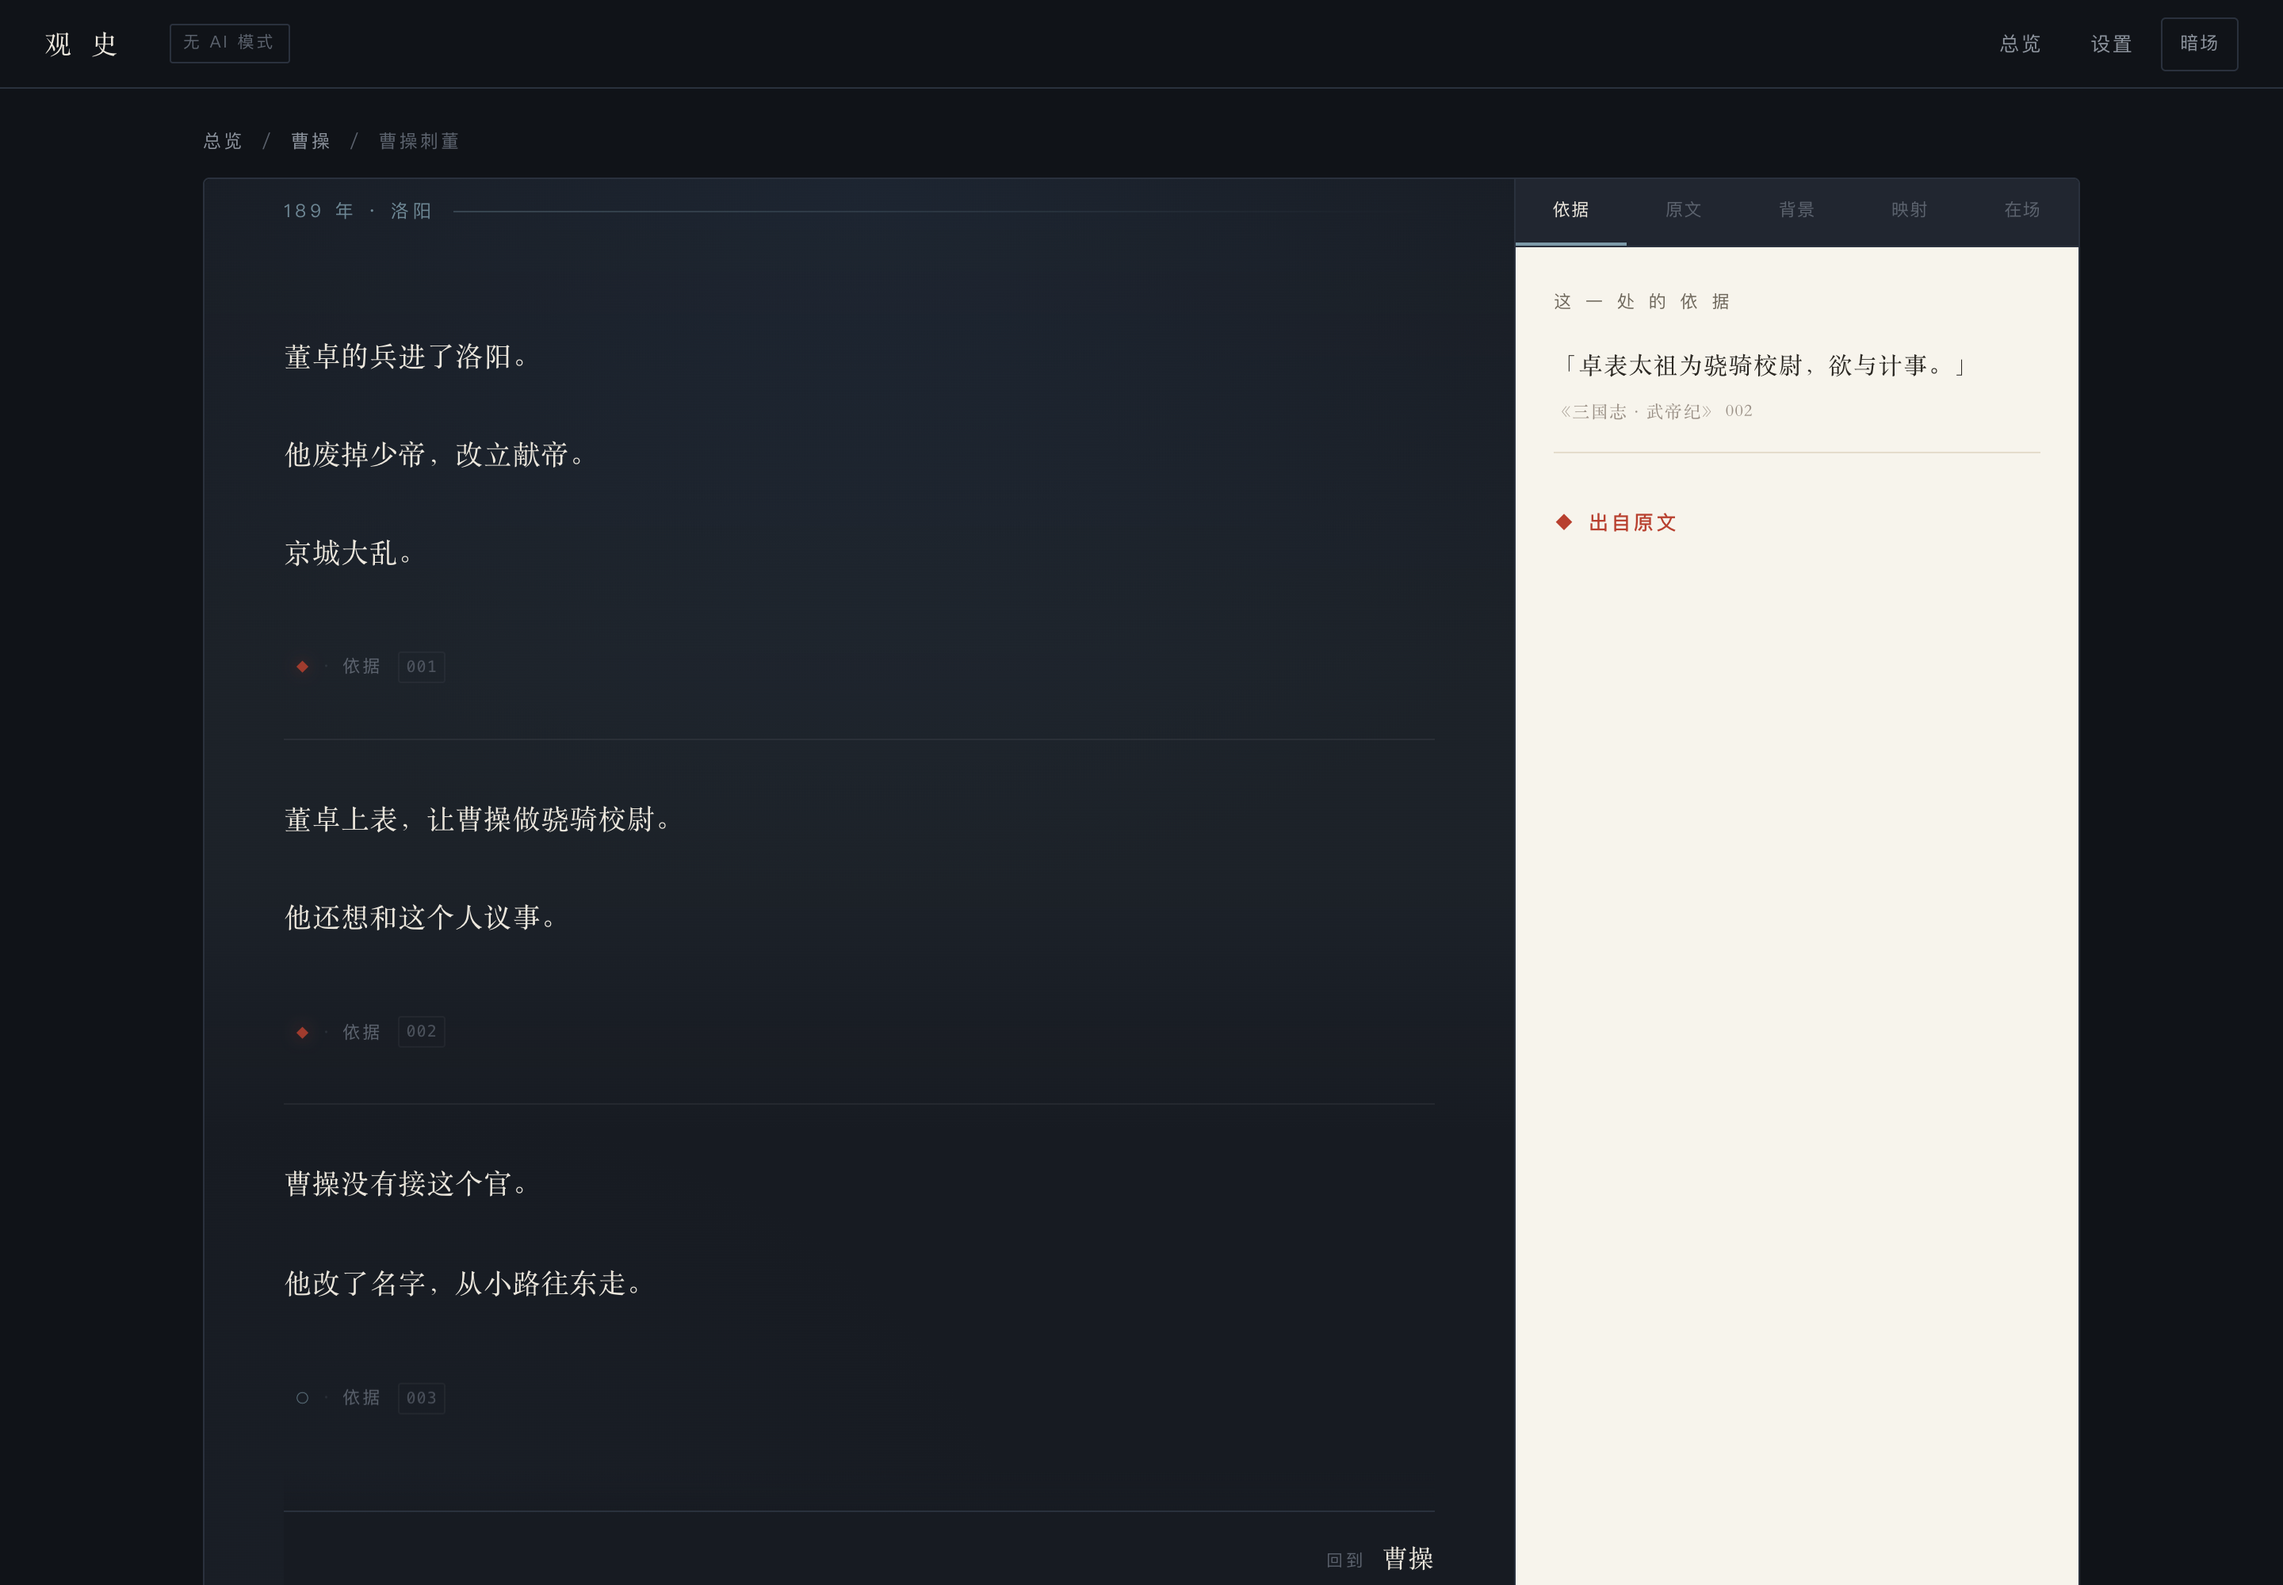
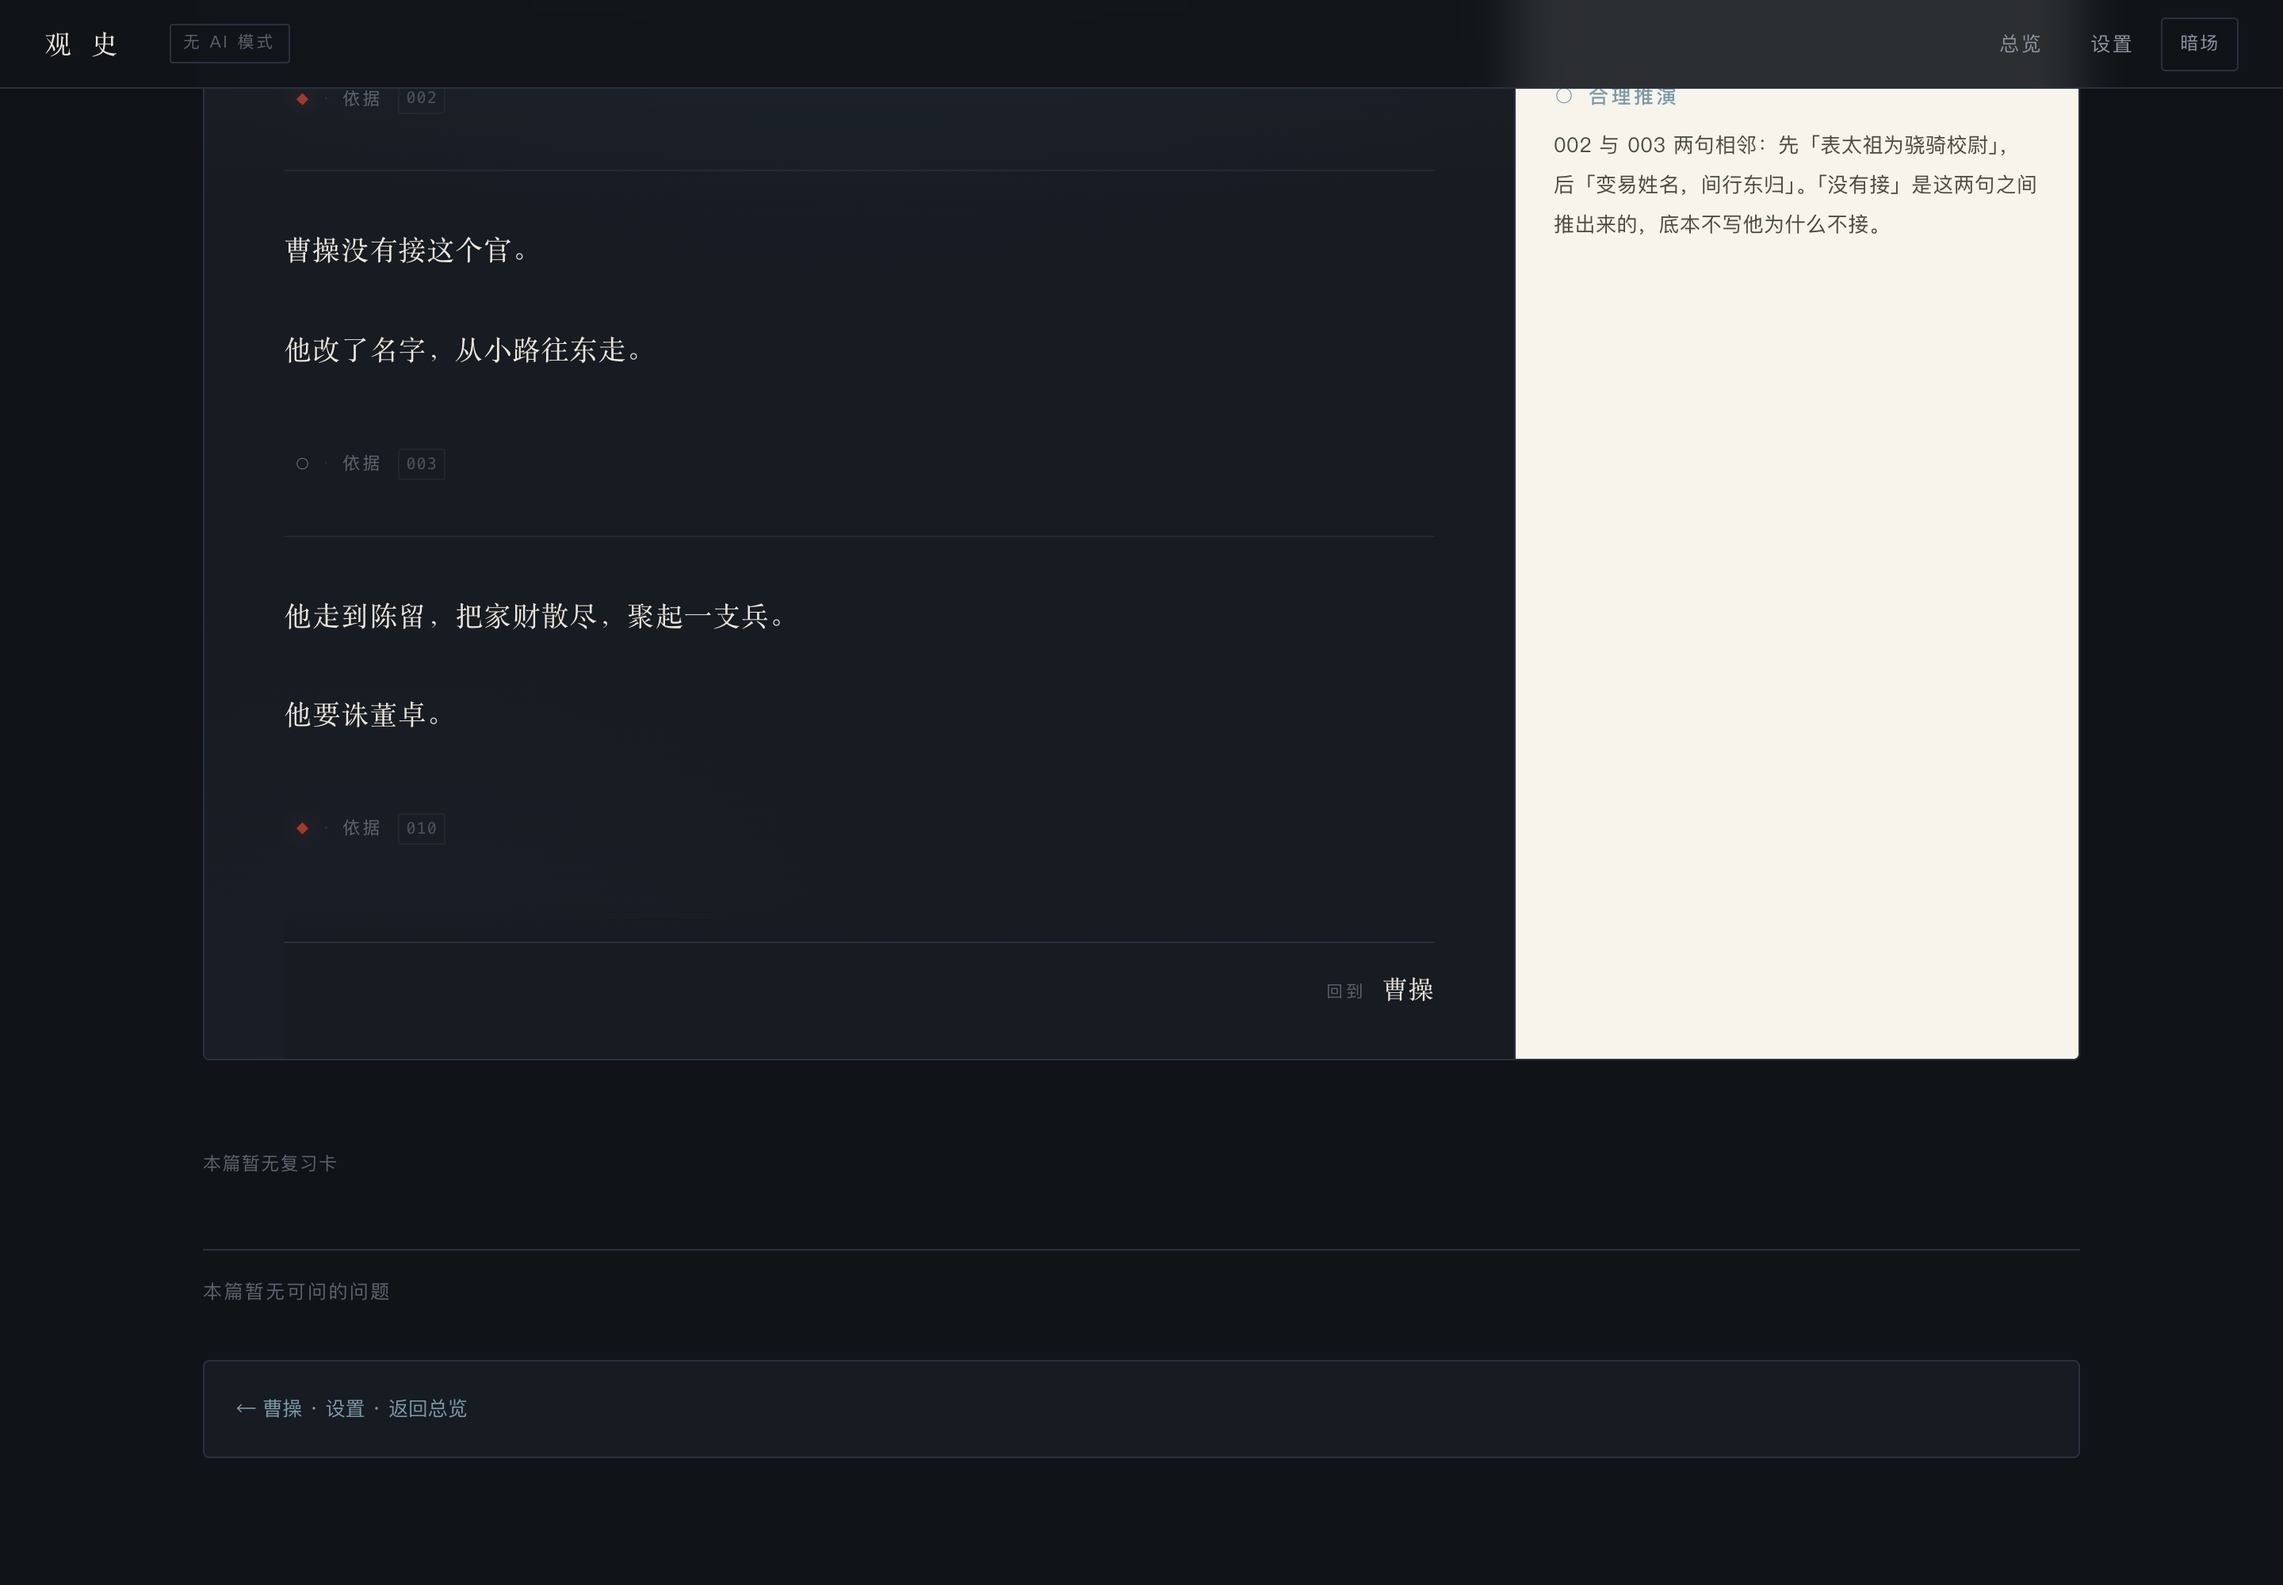
曹操刺董：把结尾补上——正史给他的不是刀，是兵
用户读到最后一段问「曹操刺董卓怎么到这里就结束了」。是对的，
而且是我上一轮改出来的：删掉「走到陈留，散尽家财，起兵」之后，
`003`「太祖乃变易姓名，间行东归」九个字成了全篇结尾。

**那一句是出口，不是落点。** 篇名叫「曹操刺董」，全篇没有一个字挨着「刺」，
读者读完只有「然后呢」。

底本补到 19 段之后这件事就能修对了：010「太祖至陈留，散家财，合义兵，
将以诛卓」现在是有编号的，原来那一版方向对、只是标成了 ◆ 而底本没有。

新增情节点 4 · 陈留（◆ `010`）：

    ① 董卓废立          该刺
    ② 董卓给他官        可以靠近了
    ③ 他不接，走了      没刺
    ④ 散尽家财，聚兵，要诛董卓   ← 换了个方式

原文范围 `001–004、010`——中间 005–009 是家世和早年，属别处，不跟进来。

顺带
· `lib/range.mjs`：范围的三种写法（`054–058` / `001 005 010` / `001–004、010`）
  归一处实现，渲染层和编译器引同一份。原来渲染层那段正则先咬住 `001–004`，
  010 被整个丢掉，**页面只是少一段原文，标题照样印完整范围，不报错**。
· 编译器新增守卫：范围里的编号必须在 source.md 里存在（13 例正反测）。
· stories.md 补上已定位的原文范围（02→006–007，07→011–012，08→013–015，
  09→016，10→017–019），并修掉两处写作计划里就写错的转折：
  「火烧乌巢」和「烧船自退」——两件正文都没有的事。
  `08-guandu` 改成「夜袭乌巢，大破琼等」，`09-chibi` 改成「引军还」。
· 03-chenliu 的情境改成 01 没覆盖的部分（卫兹出钱、五千人），
  并注明五千人出裴注引《世语》，写之前要补进底本。

检查项 6453 → 6483；npm run verify 12/12。

diff --git a/web/lib/content.js b/web/lib/content.js
@@ -1,5 +1,6 @@
 import fs from 'node:fs'
 import path from 'node:path'
+import { parseRange } from './range.mjs'
 
 /**
  * 读取内容编译产物。
@@ -49,21 +50,12 @@ export function groupByEra(people) {
 
 /**
  * 取某个故事用到的原文段落。
- * 故事的 sourceRange 形如 "054–058" 或 "001–016"。
+ * 范围怎么写（`001–004`、`001 005 010`、`001–004、010`）由 `range.mjs` 说了算，
+ * 编译器和这里引的是同一份实现，不会各认各的。
  */
 export function sourceRange(person, range) {
   const out = {}
-  const m = String(range || '').match(/(\d{3})\s*[–\-—~]\s*(\d{3})/)
-  if (m) {
-    for (let i = Number(m[1]); i <= Number(m[2]); i++) {
-      const id = String(i).padStart(3, '0')
-      if (person.source[id]) out[id] = person.source[id]
-    }
-  } else {
-    for (const id of String(range || '').match(/\d{3}/g) || []) {
-      if (person.source[id]) out[id] = person.source[id]
-    }
-  }
+  for (const id of parseRange(range)) if (person.source[id]) out[id] = person.source[id]
   return out
 }
 

diff --git a/content/people/caocao/stories/01-cidong.md b/content/people/caocao/stories/01-cidong.md
@@ -3,7 +3,7 @@
 | | |
 |---|---|
 | **地点** | 洛阳 |
-| **原文** | 001–004 |
+| **原文** | 001–004、010 |
 
 ---
 
@@ -19,6 +19,8 @@
 他给了曹操一个官做，还想和这个人议事。      ← ◆ 002
 
 曹操改了名字，从小路往东走。               ← ◆ 003
+
+他散尽家财，聚起一支兵。他要诛董卓。        ← ◆ 010
 ```
 
 ### 逐行依据
@@ -29,6 +31,7 @@
 | 董卓的兵进了洛阳，废少帝，立献帝 | ◆ | `001`「卓到，废帝为弘农王而立献帝，京都大乱」 |
 | 他给了曹操一个官做，还想和这个人议事 | ◆ | `002`「卓表太祖为骁骑校尉，欲与计事」 |
 | 曹操改了名字，从小路往东走 | ◆ | `003`「太祖乃变易姓名，间行东归」 |
+| 他散尽家财，聚起一支兵，要诛董卓 | ◆ | `010`「太祖至陈留，散家财，合义兵，将以诛卓」 |
 
 ---
 
@@ -81,6 +84,21 @@
 
 ---
 
+### 情节点 4 · 陈留
+
+> 他走到陈留，把家财散尽，聚起一支兵。
+>
+> 他要诛董卓。
+
+| 标记 | ◆ |
+| 原文 | `010` 太祖至陈留，散家财，合义兵，将以诛卓。 |
+| 依据 | `010` |
+
+| 说明 | 这一句是全篇的落点。**篇名叫「曹操刺董」，正史给他的不是刀，是兵。** 想把「刺」坐实，读者得去开背景卡「七宝刀」——那张就是为这个落差写的 |
+|---|---|
+
+---
+
 ## 四、背景卡
 
 ### 骁骑校尉 ○
@@ -125,6 +143,8 @@
 | 曹操变易姓名，间行东归 | ◆ | `003` |
 | 曹操没有接这个官 | ○ | 由 `002` 与 `003` 两句相邻推知；**底本不写他为什么不接** |
 | 曹操为什么不接这个官 | — | 底本只记他走了，不记他为什么走 |
+| 曹操到陈留，散家财，合义兵，将以诛卓 | ◆ | `010` |
+| 曹操起兵之后的事（五千人、荥阳之败……） | — | **本篇不写**，归 `03-chenliu` 和后续篇目 |
 | 曹操曾行刺董卓 | — | 正史未载；出自《三国演义》第四回 |
 | 曹操闯张让室、舞手戟逾墙（**本场景未用到**） | ◆ `注` | `004`（裴松之注引《魏书》），与 `001`–`003` 的正文不同级 |
 
@@ -177,9 +197,30 @@
 | 变易姓名／间行／东归 | 情节点 3 | ◆ |
 | 曹操没有接这个官 | 情节点 3 | ○（给了推演链） |
 | 董卓给官是想收他 | 背景卡「骁骑校尉」 | ○ |
-| 陈留散财起兵 | **移出本篇** | 归 `03-chenliu`，见故事一览 |
+| 至陈留／散家财／合义兵／将以诛卓 | 情节点 4 | ◆ `010` |
 | 曹操曾行刺董卓 | 映射表 | — |
 | 曹操闯张让室 | 映射表 | ◆ `注`（裴注，与正文不同级） |
+
+### 第四段是怎么回来的
+
+第一版三段就结束了，结束在「他改了名字，从小路往东走」。
+
+**这一句是出口，不是落点。** 读者读到这儿的感觉是「然后呢」——
+而篇名叫「曹操刺董」，全篇没有一个字挨着「刺」。
+
+`003` 只有九个字，它撑不起一个结尾。原来那句「走到陈留，散尽家财，起兵」
+在方向上是**对的**——那一版的问题只在于它标成了 ◆ 而底本没有；
+现在底本补了 `010`，它回来了，并且**它才是这一篇的答案**：
+
+```
+篇名问的是：他刺了吗？
+   ① 董卓废立      ← 该刺
+   ② 董卓给他官    ← 可以靠近了
+   ③ 他不接，走了  ← 没刺
+   ④ 他散尽家财，聚兵，要诛董卓   ← 换了个方式
+```
+
+**正史给他的不是刀，是兵。** 这个落差正是背景卡「七宝刀」要接的东西。
 
 ### 那个事实去哪了
 
@@ -190,8 +231,9 @@
 | 正史里没有这把刀 | 背景卡「七宝刀」——那一张就是为这件事写的 |
 | 曹操曾行刺董卓 = 正史未载 | 依据映射表（上面那一行） |
 | 曹操闯张让室、舞手戟逾墙 | 底本 `004`，标了 `注` |
+| 起兵之后的事（五千人、荥阳之败） | 不在本篇，归 `03-chenliu` 及后续 |
 
-**读者是带着期待进来的**（篇名就叫「曹操刺董」），场景不给他那把刀，
+**读者是带着期待进来的**（篇名就叫「曹操刺董」），场景给他的是兵不是刀，
 他去开背景卡——这是「先入戏，随时可查」该有的样子。
 **缺的那一块本身就是那一课，不需要有人在场景里解说。**
 

diff --git a/content/people/caocao/stories.md b/content/people/caocao/stories.md
@@ -14,14 +14,14 @@
 
 | id | 故事 | 情境 | 转折动作 | 时间 | 原文 | 时长 | 状态 |
 |---|---|---|---|---|---|---|---|
-| `01-cidong` | 曹操刺董 | 董卓进了京，给了他一个官。他没有接 | 变易姓名，间行东归 | 189 | 001–004 | 12 分 | ✅ **已实现** |
-| `02-wusebang` | 五色棒 | 二十岁，他立了五色棒。打的是宦官的叔父 | 打死蹇硕叔父 | 174 |  |  | ⬜ 待写 |
+| `01-cidong` | 曹操刺董 | 董卓进了京，给了他一个官。他没有接 | 散家财，合义兵，将以诛卓 | 189 | 001–004、010 | 14 分 | ✅ **已实现** |
+| `02-wusebang` | 五色棒 | 二十岁，他立了五色棒。打的是宦官的叔父 | 打死蹇硕叔父 | 174 | 006–007 |  | ⬜ 待写 |
 
 ### 二 · 讨董
 
 | id | 故事 | 情境 | 转折动作 | 时间 | 原文 | 时长 | 状态 |
 |---|---|---|---|---|---|---|---|
-| `03-chenliu` | 陈留起兵 | 他散尽家财，招了五千人 | 起兵讨董 | 189 |  |  | ⬜ 待写 |
+| `03-chenliu` | 陈留起兵 | 卫兹把家财拿出来资助他，凑了五千人 | 始起兵于己吾 | 189 | 010 |  | ⬜ 待写 |
 | `04-xingyang` | 荥阳之败 | 他带着那五千人去打董卓，几乎死在那儿 | 中矢，乘马被创 | 190 |  |  | ⬜ 待写 |
 
 ### 三 · 兖州
@@ -35,17 +35,35 @@
 
 | id | 故事 | 情境 | 转折动作 | 时间 | 原文 | 时长 | 状态 |
 |---|---|---|---|---|---|---|---|
-| `07-fengtianzi` | 迎天子都许 | 天子在东边流浪。别人都不去接 | 迎献帝都许 | 196 |  |  | ⬜ 待写 |
+| `07-fengtianzi` | 迎天子都许 | 天子在东边流浪。别人都不去接 | 都许 | 196 | 011–012 |  | ⬜ 待写 |
 
 ### 五 · 官渡
 
 | id | 故事 | 情境 | 转折动作 | 时间 | 原文 | 时长 | 状态 |
 |---|---|---|---|---|---|---|---|
-| `08-guandu` | **官渡** ★ | 两万人对十万。他撑了半年 | 火烧乌巢 | 200 |  |  | ⬜ 待写 |
+| `08-guandu` | **官渡** ★ | 他撑着，粮快没了 | 夜袭乌巢，大破琼等 | 200 | 013–015 |  | ⬜ 待写 |
 
 ### 六 · 赤壁与晚年
 
 | id | 故事 | 情境 | 转折动作 | 时间 | 原文 | 时长 | 状态 |
 |---|---|---|---|---|---|---|---|
-| `09-chibi` | **赤壁** ★ | 船连着船，从江面一直排到岸上 | 烧船自退 | 208 |  |  | ⬜ 待写 |
-| `10-weiwang` | 魏王 | 他接受了九锡。这一次他没有推 | 进爵魏王 | 216 |  |  | ⬜ 待写 |
+| `09-chibi` | **赤壁** ★ | 打了一仗，没打赢。然后是大疫 | 引军还 | 208 | 016 |  | ⬜ 待写 |
+| `10-weiwang` | 魏王 | 天子策命他为魏公，后来进爵魏王 | 进爵魏王 | 216 | 017–019 |  | ⬜ 待写 |
+
+---
+
+**关于「原文」这一列。** 已经定位到底本的篇目，范围填在这里——
+`sourceRange` 认 `001–004`、`001 005 010`、`001–004、010` 三种写法，可以混。
+空着的就是还没定。三条要注意的：
+
+| 篇目 | 事 |
+|---|---|
+| `03-chenliu` | 「五千人」出**裴注引《世语》**（陈留孝廉卫兹以家财资太祖，使起兵，众有五千人），**现在不在底本里**，写这一篇时先补进去 |
+| `08-guandu` | 转折原来写的是「**火烧乌巢**」——`013` 正文里没有火，止于「大破琼等，皆斩之」；放火燔粮在 `015`，是裴注引《曹瞒传》。两回事，已改 |
+| `09-chibi` | 转折原来写的是「**烧船自退**」——`016` 正文只有「乃引军还」。谁烧的船，正文不回答 |
+
+`04`–`06` 三篇还没有底本。`04-xingyang` 的「中矢，乘马被创」、
+`06-qingzhou` 的「三十万降卒」都还是计划里的话，写之前先回 `source.md` 找编号。
+
+> ⚠ 这一整段必须留在「## 故事一览」**里面**。下面那张两列的小表首列长得像故事 id，
+> 一旦被 `##` 隔到小节外面，编译器会把它当"漏登记的故事"报错。
